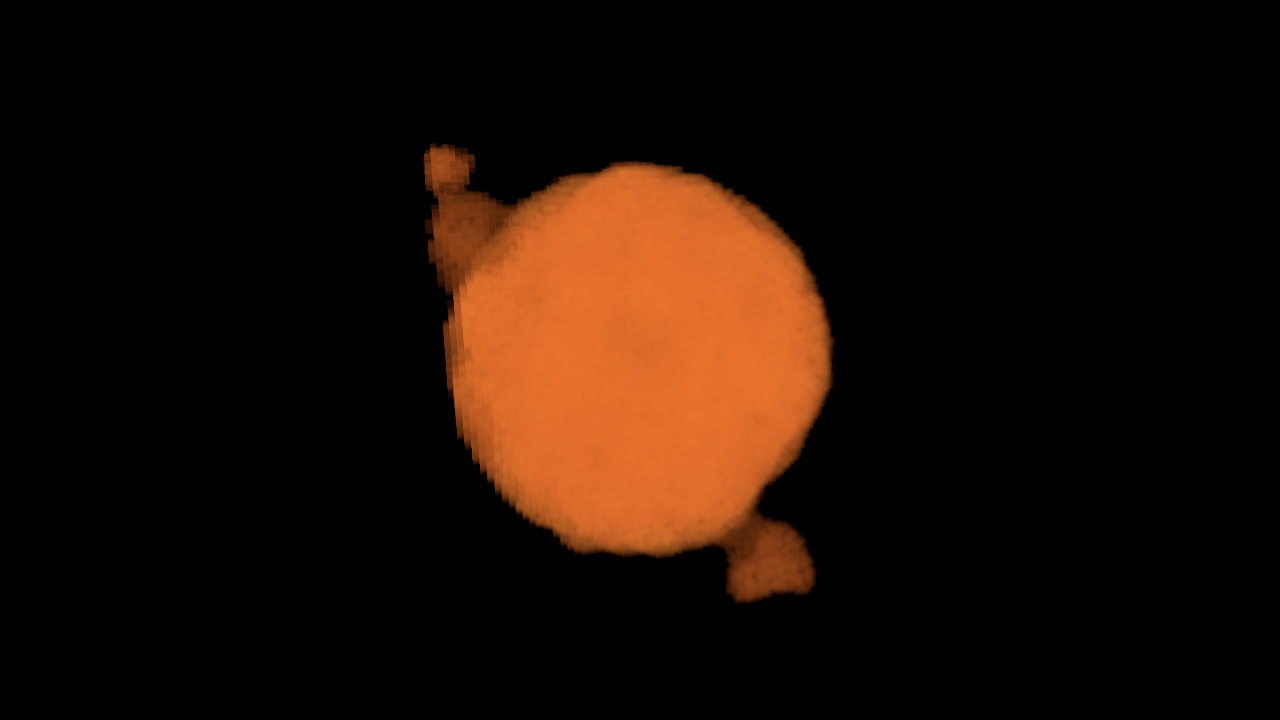
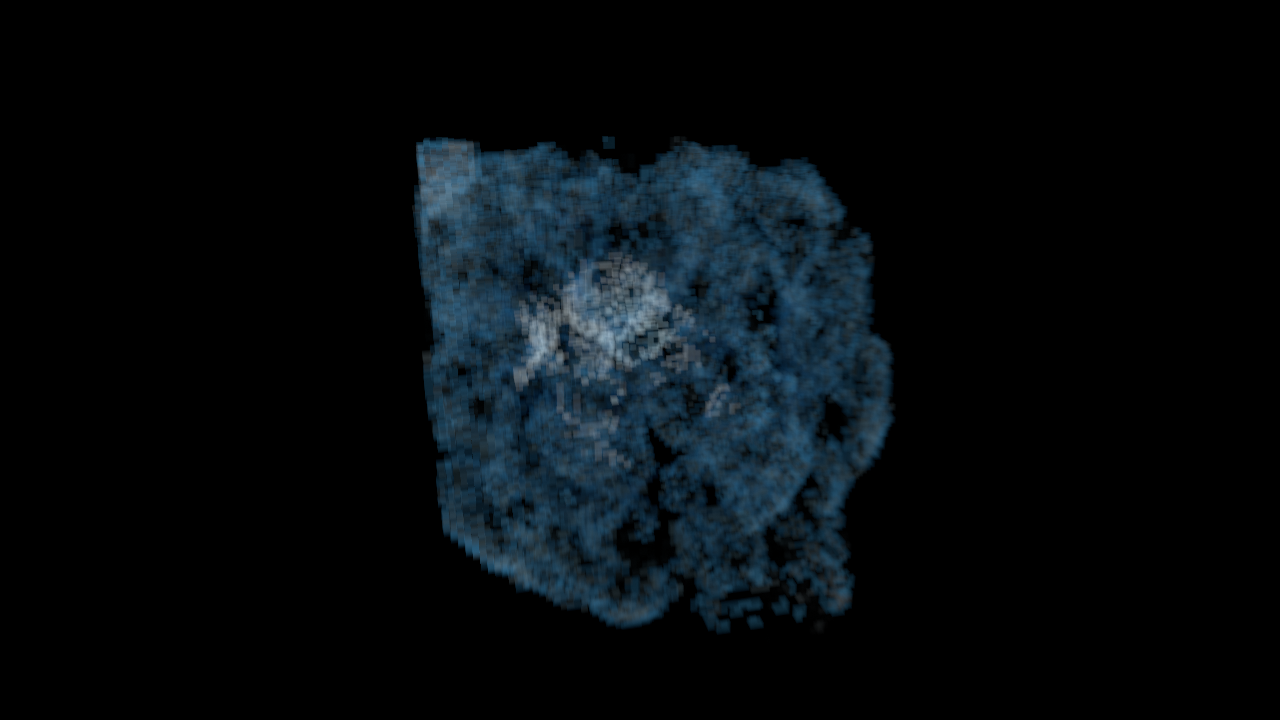
feat(preset): the voxel teaching presets go monochrome and see-through
Chosen live by the owner. Voxel Solid is black on white: near-black
pyroclastic cubes on a white backdrop, the palette's dark end on the
cubes and its white end on the backdrop, with exposure 3 lifting the
backdrop past the tonemap's grey. Its white-on-black twin is kept as
solid_dark.toml. Voxel Clouds runs the pyroclastic foam as a faint ice
glow at density 0.05, so the inside and far side show through; the
clouds rule filled its ball solid and could not.

The two guide pictures are re-rendered and their alt text follows them.
The eight voxel gate tests and the preset suites pass.

Changed region(s): [[0.3125, 0.1833, 0.7188, 0.8861]]

diff --git a/docs/preset-guide.md b/docs/preset-guide.md
@@ -493,11 +493,10 @@ instant. `rows` and `row_period` set how much history there is, in the
 
 ### `voxel`
 
-![A soft-edged ball of glowing orange on black with two small lobes budding off its rim: the volume
-reads as one dense amber mass, darker where it is thickest at the centre and grainy along its
-edges](images/gallery/voxel.png)
+![A faint, ragged cube of blue glow on black, full of dark gaps: the far side shows through the near
+one, and a paler knot of cells glows at its centre](images/gallery/voxel.png)
 
-*`rules = ["clouds"]` — the teaching preset
+*`rules = ["pyroclastic"]`, `density = "0.05"` — the teaching preset
 [`docs/examples/voxel/clouds.toml`](examples/voxel/clouds.toml); the shipped set has none yet*
 
 A **cellular automaton in three dimensions**: a cube of cells, every generation each cell deciding
@@ -511,12 +510,13 @@ counts, and the `rule` parameter picks one. Held on the bar, the automaton chang
 bar line. Most 3D rules settle into a shape and hold it, so `reseed` on an onset is how the cube
 stays alive: each rise drops a ball of fresh cells that grows again.
 
-![A porous block of small orange cubes on black, full of holes that show into it: each cube is lit
-from the upper left, its sides a shade darker, the creases between them darkest, and pale decaying
-cells glow in the gaps inside](images/voxel/solid.png)
+![A porous block of small near-black cubes on a white page, full of holes that show into it: each
+cube is lit from the upper left, its sides a shade darker, and pale decaying cells sit in the gaps
+inside](images/voxel/solid.png)
 
 *`present = "solid"`, `rules = ["pyroclastic"]` — the teaching preset
-[`docs/examples/voxel/solid.toml`](examples/voxel/solid.toml)*
+[`docs/examples/voxel/solid.toml`](examples/voxel/solid.toml), black on white; white on black is
+[`solid_dark.toml`](examples/voxel/solid_dark.toml)*
 
 `present = "solid"` draws every live cell as a **lit cube** instead of as light: one key light
 that turns with the camera, an ambient term, and an occlusion that darkens the creases where cubes
